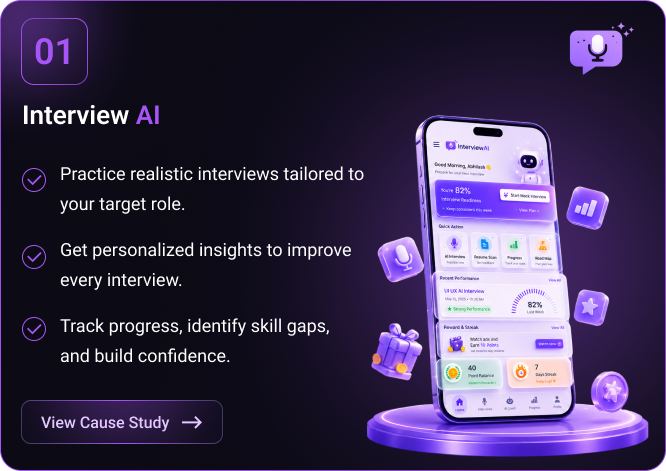
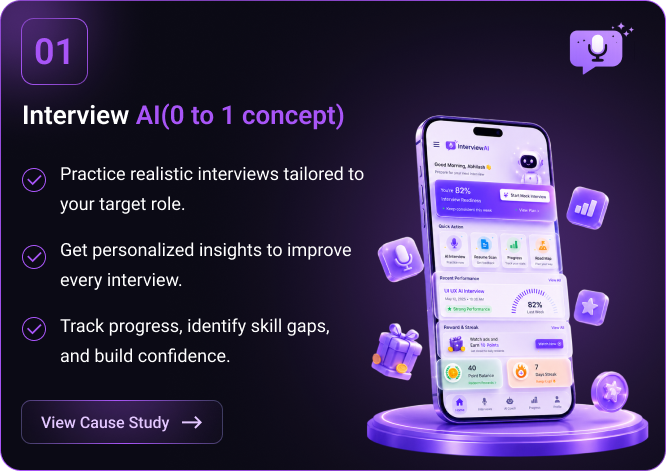
new_update_2.1

Changed region(s): [[0.2402, 0.2081, 0.5405, 0.2675]]

diff --git a/src/app/core/components/gallery-3d/gallery-3d.component.ts b/src/app/core/components/gallery-3d/gallery-3d.component.ts
@@ -37,52 +37,51 @@ export class Gallery3dComponent implements AfterViewInit, OnDestroy {
    */
   private readonly IMAGES = [
     {
-      path: 'assets/images/project 1.png',
+      path: 'assets/images/zoom/1.png',
+      href: 'https://www.figma.com/design/c0YVEqJ32diynIZfJfnNHy/Ev-Booking?node-id=356-2045&t=jknJuln0n4YxIEV7-1',
+    },
+    {
+      path: 'assets/images/zoom/4.png',
+      href: 'https://www.figma.com/design/njHD5544N2MBVQEfkM0o7w/SAAS-Project?node-id=3-1344&t=OhgeyGdZaEXYIyRZ-1',
+    },
+
+    {
+      path: 'assets/images/zoom/3.png',
+      href: 'https://www.figma.com/design/q3RcdlBzKYhyPIDAIArIZx/JReport?node-id=0-1&t=DokHTlLI7cf7WoDg-1',
+    },
+    {
+      path: 'assets/images/zoom/8.png',
+      href: 'https://theauraeliteevents.com/',
+    },
+
+    {
+      path: 'assets/images/zoom/5.png',
+      href: 'https://www.figma.com/design/9tBZ7gspssItJ6drWOVJub/jcompanion?node-id=0-1&t=OqRFXZp3SI90Z10x-1',
+    },
+    {
+      path: 'assets/images/zoom/6.png',
       href: 'https://www.behance.net/abilashravi4702',
     },
     {
-      path: 'assets/images/project 2.png',
-      href: 'https://www.behance.net/gallery/238250743/Paisa-Pop-Loan-App-Redesign-UXUI-Case-Study',
+      path: 'assets/images/zoom/7.png',
+      href: 'https://www.behance.net/abilashravi4702',
     },
+
     {
-      path: 'assets/images/project 3.png',
+      path: 'assets/images/zoom/9.png',
       href: 'https://www.behance.net/abilashravi4702',
     },
     {
-      path: 'assets/images/project 4.png',
-      href: 'https://www.behance.net/gallery/235183431/Secure-Digital-Wallet-Buy-Gold-App-(UIUX-Case-Study)',
-    },
-    {
-      path: 'assets/images/project 5.png',
+      path: 'assets/images/zoom/10.png',
       href: 'https://www.behance.net/abilashravi4702',
     },
     {
-      path: 'assets/images/project 6.png',
-      href: 'https://www.behance.net/gallery/238251613/Corporate-Website-Redesign-InfoPlus-Homepage-UXUI',
-    },
-    {
-      path: 'assets/images/project 1.png',
+      path: 'assets/images/zoom/5.png',
       href: 'https://www.behance.net/abilashravi4702',
     },
     {
-      path: 'assets/images/project 2.png',
-      href: 'https://www.behance.net/gallery/238250743/Paisa-Pop-Loan-App-Redesign-UXUI-Case-Study',
-    },
-    {
-      path: 'assets/images/project 3.png',
-      href: 'https://www.behance.net/abilashravi4702',
-    },
-    {
-      path: 'assets/images/project 4.png',
-      href: 'https://www.behance.net/gallery/235183431/Secure-Digital-Wallet-Buy-Gold-App-(UIUX-Case-Study)',
-    },
-    {
-      path: 'assets/images/project 5.png',
-      href: 'https://www.behance.net/abilashravi4702',
-    },
-    {
-      path: 'assets/images/project 6.png',
-      href: 'https://www.behance.net/gallery/238251613/Corporate-Website-Redesign-InfoPlus-Homepage-UXUI',
+      path: 'assets/images/zoom/2.png',
+      href: 'https://www.behance.net/gallery/168801133/milk-home-delivery',
     },
   ];
 
@@ -128,7 +127,9 @@ export class Gallery3dComponent implements AfterViewInit, OnDestroy {
       this.firstZ - Gallery3dComponent.IMAGE_SPACING * (this.IMAGES.length - 1);
     // Camera's flight ends just past the last image's peak — not way past it.
     this.END_Z =
-      this.lastZ + Gallery3dComponent.PEAK_OFFSET + Gallery3dComponent.FINISH_BUFFER;
+      this.lastZ +
+      Gallery3dComponent.PEAK_OFFSET +
+      Gallery3dComponent.FINISH_BUFFER;
 
     // The intro overlay should be fully gone by the moment the first image
     // reaches its peak/zoomed-in moment (camera.z = firstZ + PEAK_OFFSET).
@@ -153,7 +154,10 @@ export class Gallery3dComponent implements AfterViewInit, OnDestroy {
 
   ngOnDestroy(): void {
     window.removeEventListener('resize', this.resizeHandler);
-    this.canvasRef.nativeElement.removeEventListener('click', this.clickHandler);
+    this.canvasRef.nativeElement.removeEventListener(
+      'click',
+      this.clickHandler,
+    );
     cancelAnimationFrame(this.rafId);
     this.scrollTriggerInstance?.kill();
 

diff --git a/src/app/core/components/works/works.component.ts b/src/app/core/components/works/works.component.ts
@@ -70,6 +70,20 @@ export class WorksComponent {
       href: 'https://www.behance.net/gallery/238251613/Corporate-Website-Redesign-InfoPlus-Homepage-UXUI',
       img: 'assets/images/project 6.png',
     },
+    {
+      id: '07',
+      title: 'Food App',
+      category: '0 to 1 Concept',
+      href: 'https://www.behance.net/gallery/233455293/ForkPay-The-Smarter-Way-to-Dine-Pay',
+      img: 'assets/images/project 7.png',
+    },
+    {
+      id: '08',
+      title: 'InfoPlus (Redesign)',
+      category: 'Website',
+      href: 'https://www.behance.net/gallery/238251613/Corporate-Website-Redesign-InfoPlus-Homepage-UXUI',
+      img: 'assets/images/project 8.png',
+    },
   ];
 
   get filteredProjectCards(): ProjectCard[] {